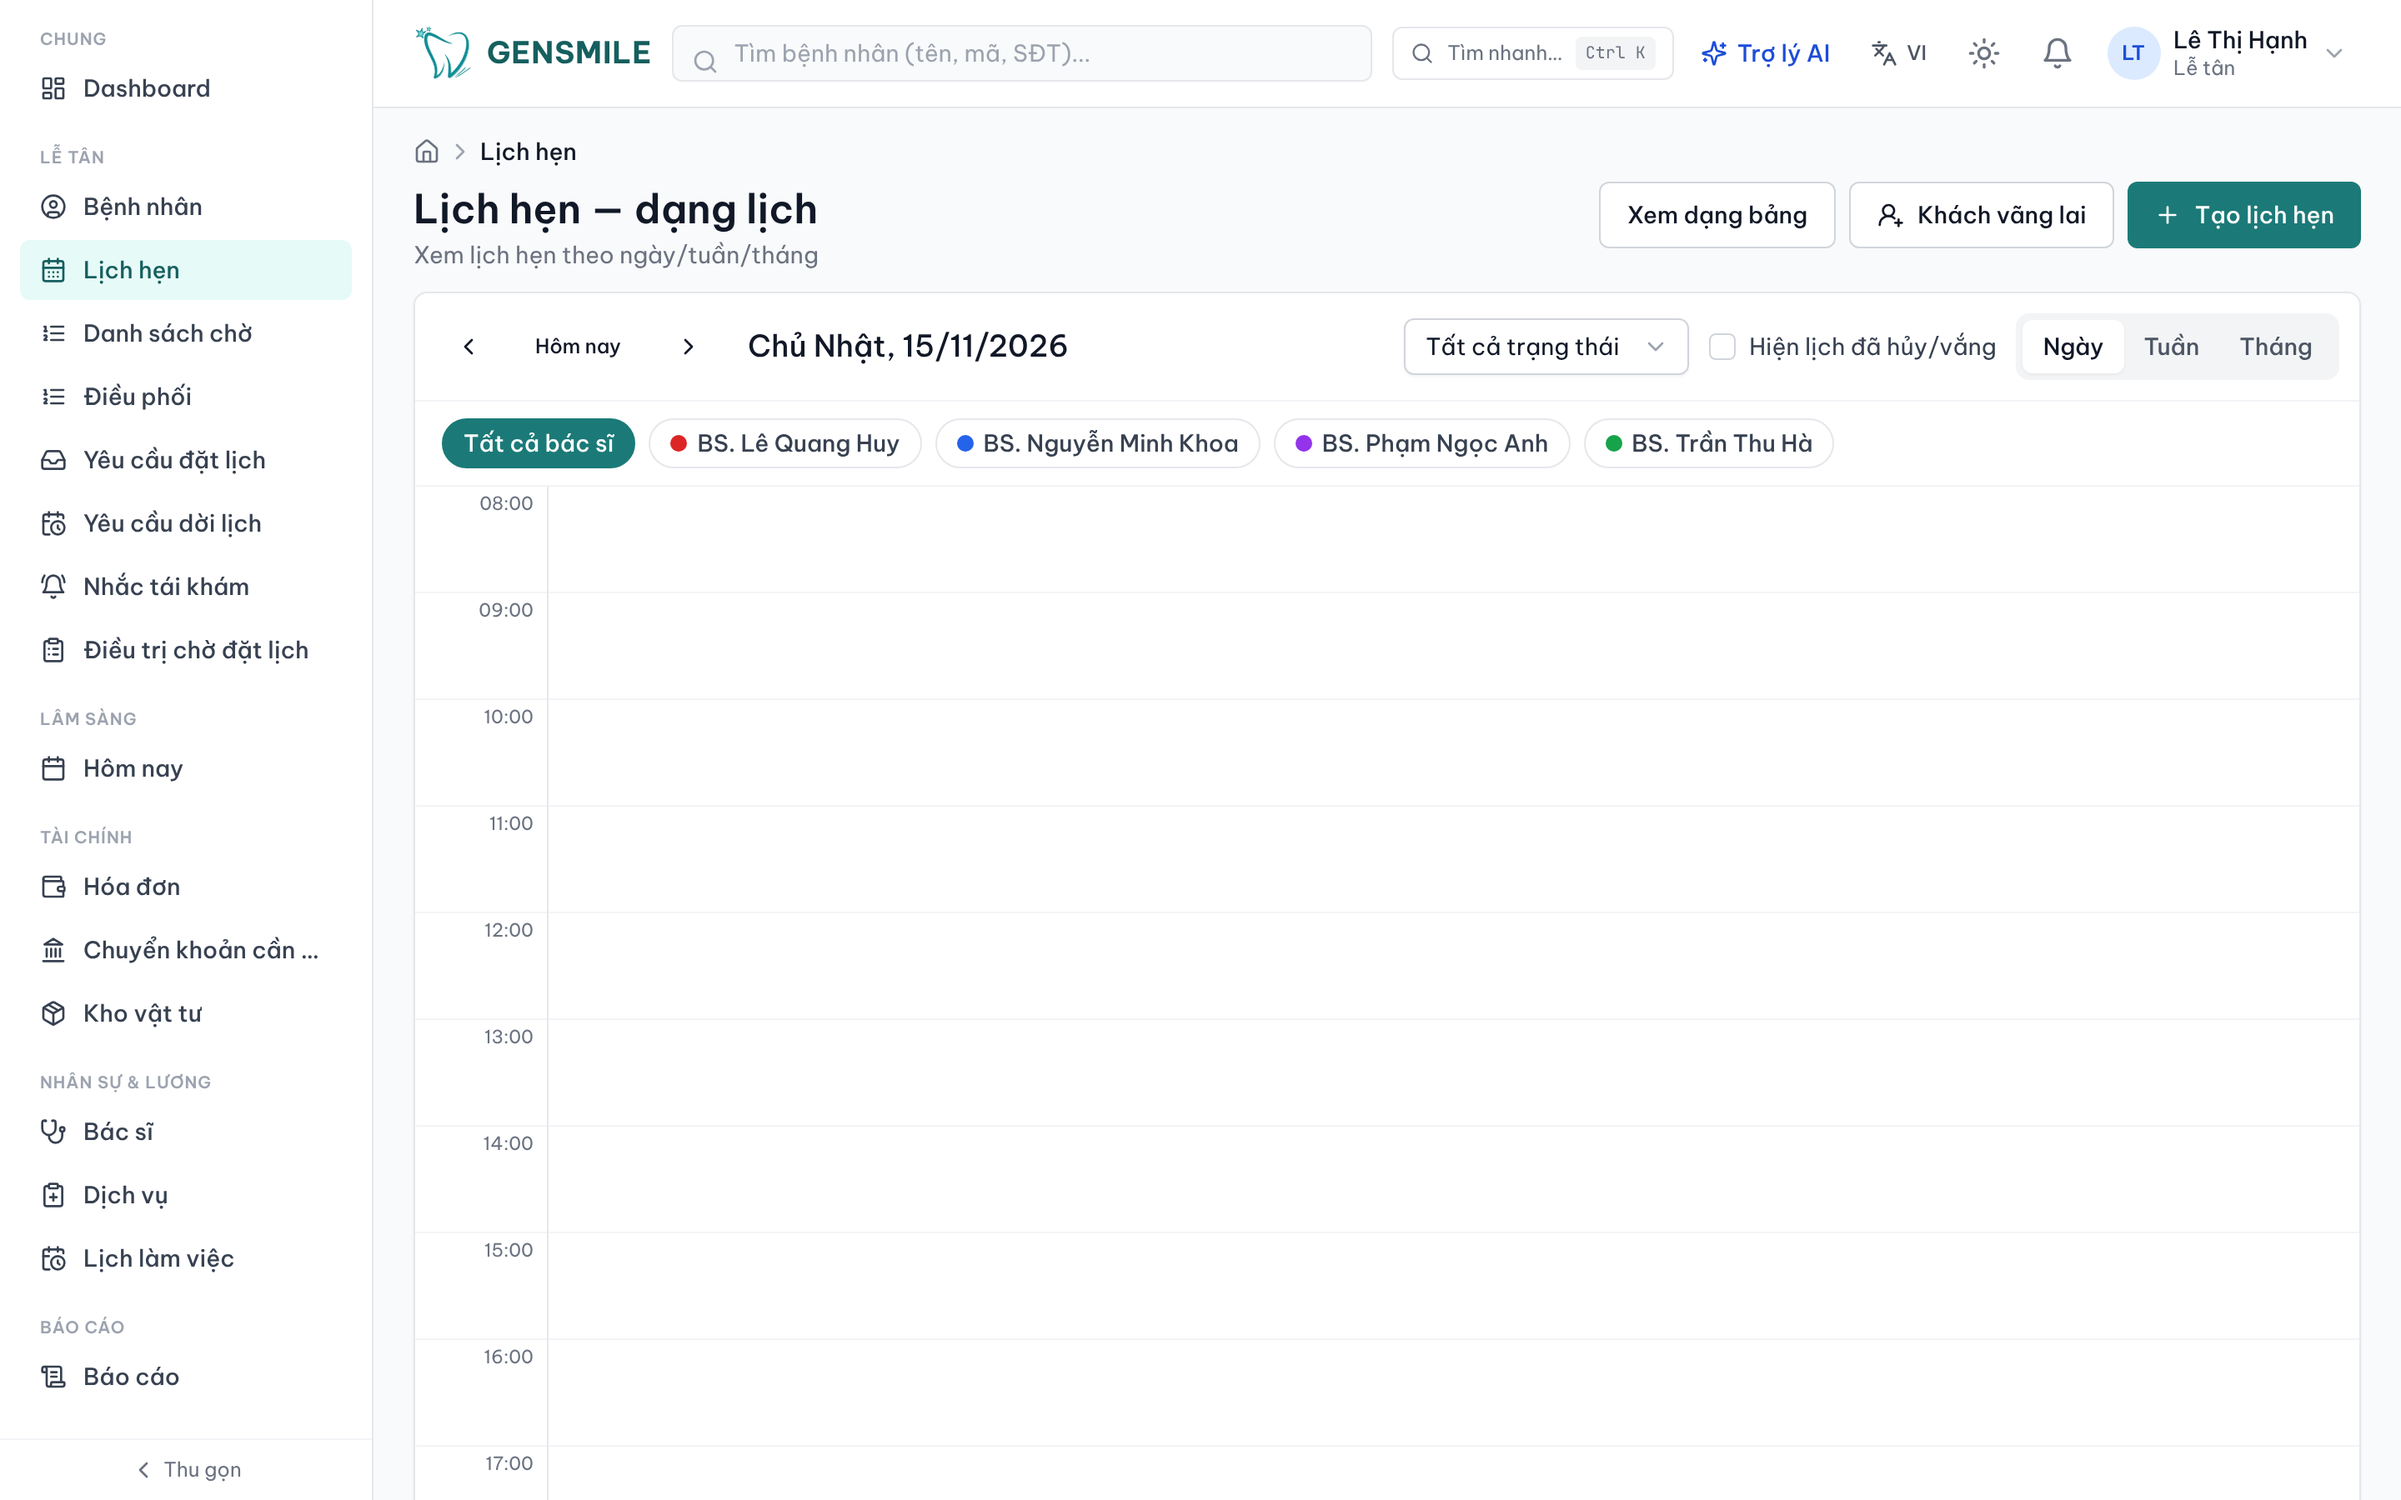
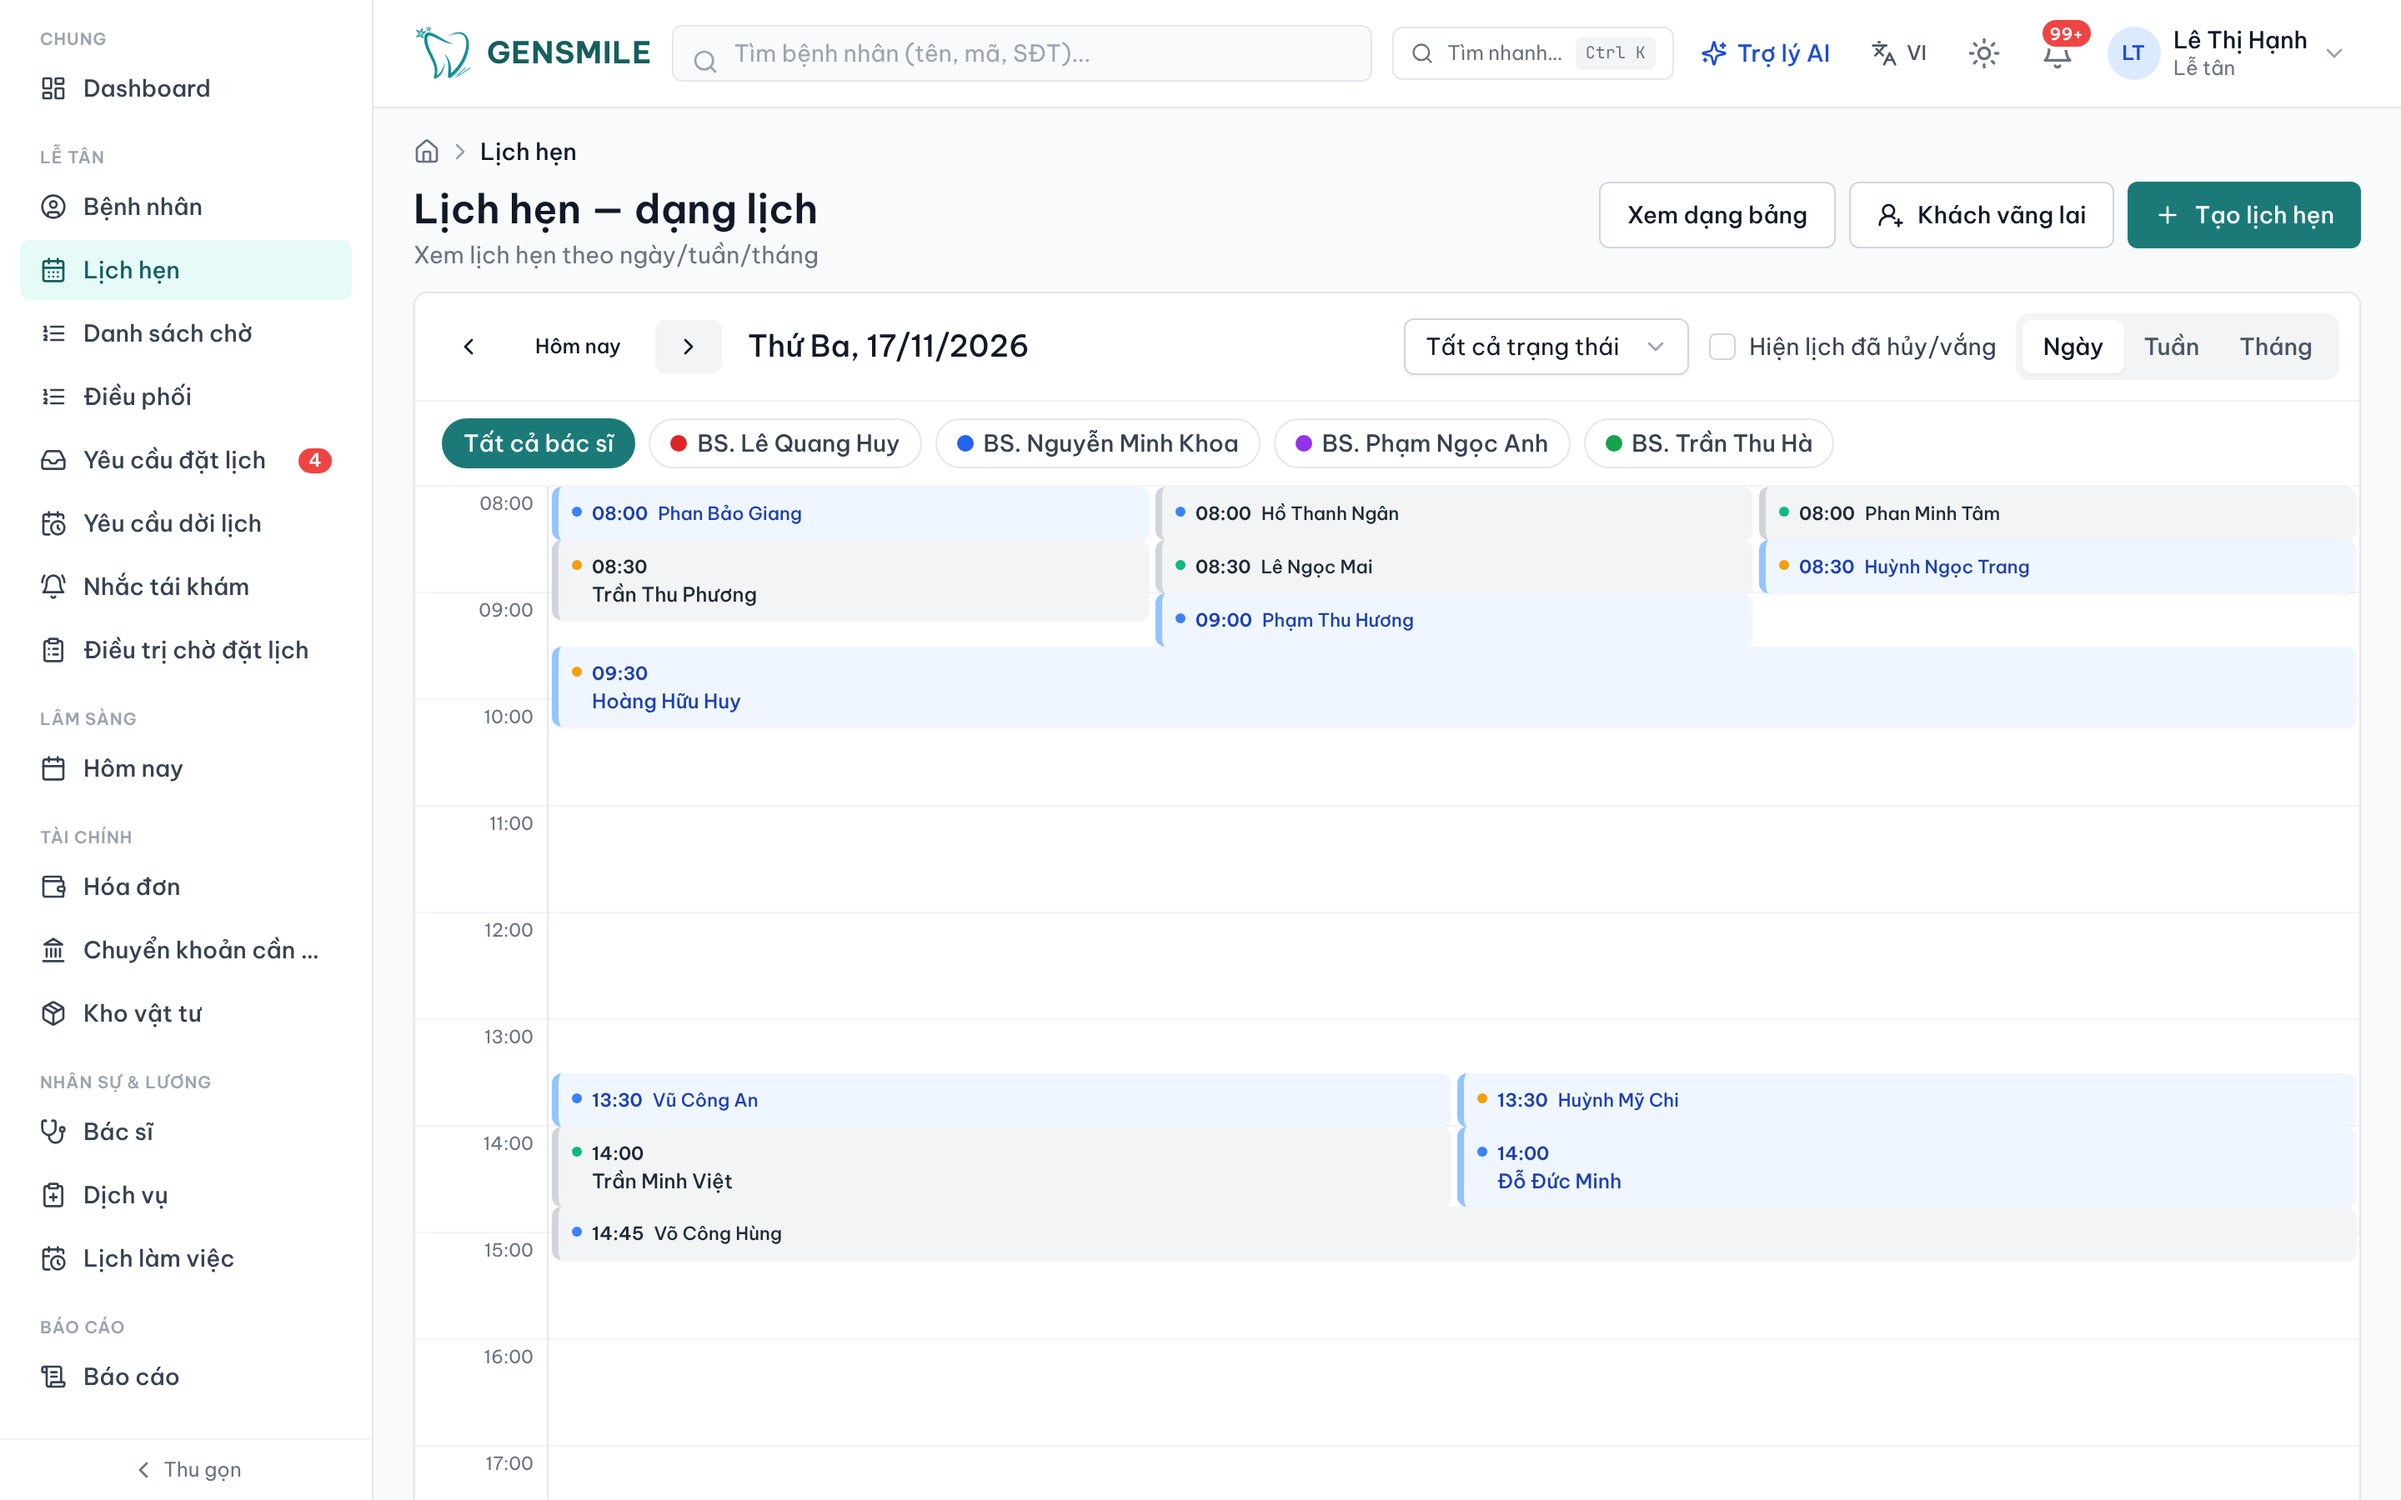
docs(thesis): chụp lại màn hình lịch hẹn có dữ liệu, sửa mô tả
Claude-Session: https://claude.ai/code/session_01TBoubatqgAjjLj8yNYh2bv

diff --git a/docs/10_Thesis/bao-cao/14-chuong-4.md b/docs/10_Thesis/bao-cao/14-chuong-4.md
@@ -219,7 +219,7 @@ Nguồn: Tác giả, chụp từ hệ thống GenSmile
 
 ### 4.5.2. Lễ tân: tiếp nhận và điều phối trong ngày
 
-Màn hình "Hôm nay" (Hình 4.4) tóm tắt số lịch, số khách chưa đến, đã đến, đang khám và danh sách lịch hẹn trong ngày theo giờ, mỗi lịch có nút check-in. Màn hình điều phối (Hình 4.5) hiển thị từng bác sĩ cùng khách đang khám và hàng chờ của bác sĩ đó; lễ tân có thể chuyển khách sang bác sĩ khác, ưu tiên cấp cứu hoặc ghi nhận khách về trước. Lịch hẹn (Hình 4.6) hiển thị theo ngày hoặc tuần, mỗi cột một bác sĩ.
+Màn hình "Hôm nay" (Hình 4.4) tóm tắt số lịch, số khách chưa đến, đã đến, đang khám và danh sách lịch hẹn trong ngày theo giờ, mỗi lịch có nút check-in. Màn hình điều phối (Hình 4.5) hiển thị từng bác sĩ cùng khách đang khám và hàng chờ của bác sĩ đó; lễ tân có thể chuyển khách sang bác sĩ khác, ưu tiên cấp cứu hoặc ghi nhận khách về trước. Lịch hẹn (Hình 4.6) hiển thị theo ngày, tuần hoặc tháng; mỗi lịch có chấm màu theo bác sĩ và có thể lọc riêng từng bác sĩ, bấm vào khung giờ trống để tạo lịch mới.
 
 ::: {custom-style="Ảnh"}
 ![](hinh/4-lt-hom-nay.png){width=15cm}
@@ -250,7 +250,7 @@ Nguồn: Tác giả, chụp từ hệ thống GenSmile
 :::
 
 ::: {custom-style="hình"}
-Hình 4.6. Lịch hẹn theo ngày, chia cột theo bác sĩ
+Hình 4.6. Lịch hẹn theo ngày của các bác sĩ
 :::
 
 ::: {custom-style="nguồn"}

diff --git a/docs/progress/lessons.md b/docs/progress/lessons.md
@@ -85,3 +85,4 @@ Cập nhật lần cuối: 08/11/2026 (sau các PR #87 đến #95).
 - Đo độ bao phủ: collectCoverageFrom của backend chỉ gồm *.service.ts/*.controller.ts và loại domain/**, nên khi trích số phải nói rõ phạm vi đo.
 - Kiểm tra cỡ chữ in của hình = cỡ font × (độ rộng hiển thị pt × dpi/72) / px ảnh; sơ đồ tuần tự rộng cần maxMessageSize để không bị thu quá nhỏ.
 - Khoảng trắng do hình cao bị đẩy trang: thu nhỏ có giới hạn tự động tốt hơn sửa tay từng hình; ảnh chụp màn hình không được thu quá 10% vì chữ UI đã nhỏ.
+- Ảnh chụp màn hình có dữ liệu theo ngày: kiểm tra ảnh không trống (chụp vào ngày có dữ liệu, không phải Chủ nhật).

diff --git a/docs/progress/session-log.md b/docs/progress/session-log.md
@@ -129,3 +129,4 @@
 - Hình 3.12 (VietQR): rút gọn tên đối tượng, bỏ hộp chân, chữ in ~7,3 pt.
 - Mọi sơ đồ tuần tự: hide footbox (bớt chiều cao).
 - Tách ERD Hình 3.3 thành phiên khám (3.3) và điều trị/kế hoạch (3.4); đánh số lại Hình 3.4–3.35 → 3.5–3.36. Không còn sơ đồ chữ dưới ~6,5 pt. 167 trang, Kết luận = 135.
+- Hình 4.6 chụp lại (ảnh cũ chụp ngày Chủ nhật, lịch trống) ở ngày 17/11 có 13 lịch hẹn; sửa mô tả: lịch phân biệt bác sĩ bằng chấm màu và bộ lọc, có ngày/tuần/tháng.
